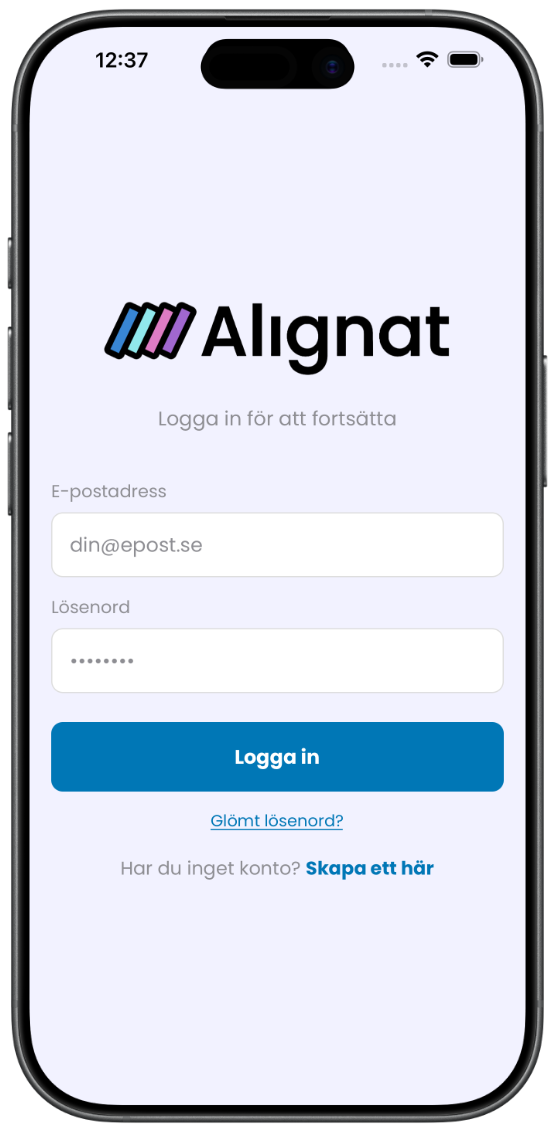
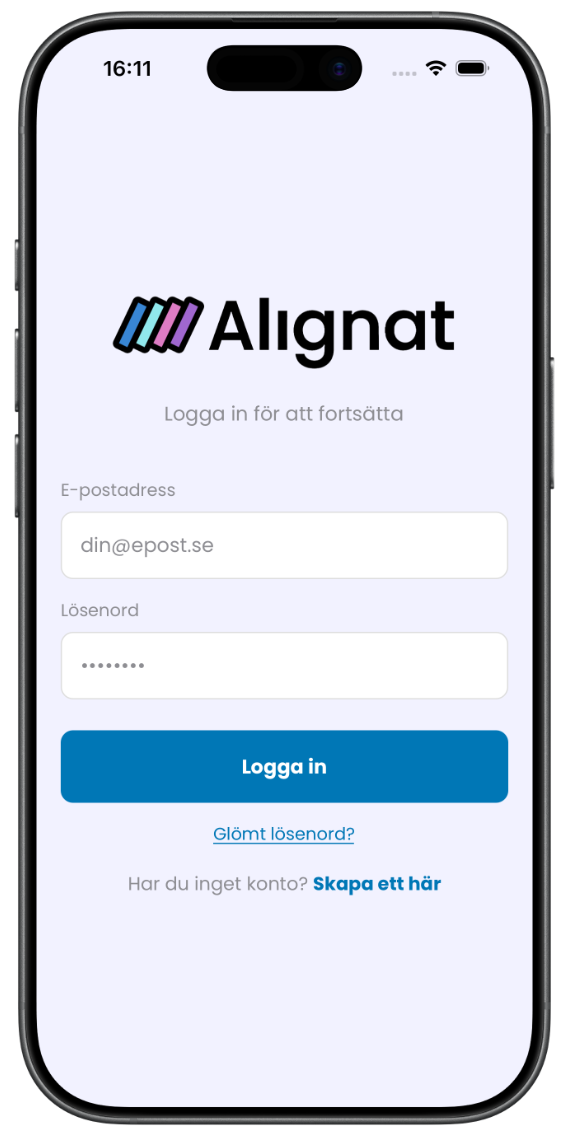
fler screenshots

diff --git a/app/components/ScreenshotCarousel.tsx b/app/components/ScreenshotCarousel.tsx
@@ -6,36 +6,59 @@ import { useState } from 'react';
 // Screenshot data med bildfiler och beskrivningar
 const screenshots = [
   {
-    src: '/images/Al_scs_huvudmeny.png',
+    src: '/images/Al_scs_huvudmeny2.png',
     alt: 'Alignat huvudmeny',
-    caption: 'Enkel överblick på dina jobb och funktioner',
+    caption: 'Hemskärm med inställningar, sök och meny',
   },
   {
-    src: '/images/Al_scs_plusMeny.png',
-    alt: 'Skapa nytt i Alignat',
-    caption: 'Skapa offert, jobb, kunder eller registrera personal',
+    src: '/images/Al_scs_plusMeny2.png',
+    alt: 'Plusmeny',
+    caption: 'Plusmeny för snabbt skapande av innehåll',
   },
   {
-    src: '/images/Al_scs_NyttJobb1.png',
-    alt: 'Lägg till jobb',
-    caption: 'Registrera tid, material och tjänster direkt på jobbet',
+    src: '/images/Al_scs_NyttJobb1_2.png',
+    alt: 'Skapa nytt jobb',
+    caption: 'Skapa nytt jobb eller arbetsorder',
   },
   {
-    src: '/images/Al_scs_ProjSkärm.png',
+    src: '/images/Al_scs_HanteraMeny2.png',
+    alt: 'Hantera menyn',
+    caption: 'Hanteramenyn ger snabb åtkomst till alla funktioner',
+  },
+  {
+    src: '/images/Al_scs_ProjSkärm2.png',
     alt: 'Projektöversikt',
-    caption: 'Se alla aktiva jobb och offerter på ett ställe',
+    caption: 'Tydlig kronologisk översikt på alla jobb',
+  },
+  {
+    src: '/images/Al_scs_Fakturering2.png',
+    alt: 'Fakturering',
+    caption: 'Fakturera snabbt, jobb och arbetsordrar kan samfaktureras',
   },
 ];
 
 export default function ScreenshotCarousel() {
-  const [currentIndex, setCurrentIndex] = useState(0);
+  // Separat state för mobil och desktop för att undvika konflikter
+  const [mobileIndex, setMobileIndex] = useState(0);
+  const [desktopIndex, setDesktopIndex] = useState(0);
 
-  const goToNext = () => {
-    setCurrentIndex((prev) => (prev + 1) % screenshots.length);
+  // --- Mobil Navigation (1 bild i taget) ---
+  const nextMobile = () => {
+    setMobileIndex((prev) => (prev + 1) % screenshots.length);
+  };
+  const prevMobile = () => {
+    setMobileIndex((prev) => (prev - 1 + screenshots.length) % screenshots.length);
   };
 
-  const goToPrev = () => {
-    setCurrentIndex((prev) => (prev - 1 + screenshots.length) % screenshots.length);
+  // --- Desktop Navigation (Parvis, 2 bilder i taget) ---
+  // Vi har 6 bilder, så det blir 3 "sidor" (0, 1, 2)
+  const desktopPages = Math.ceil(screenshots.length / 2);
+  
+  const nextDesktop = () => {
+    setDesktopIndex((prev) => (prev + 1) % desktopPages);
+  };
+  const prevDesktop = () => {
+    setDesktopIndex((prev) => (prev - 1 + desktopPages) % desktopPages);
   };
 
   return (
@@ -51,61 +74,95 @@ export default function ScreenshotCarousel() {
           </p>
         </div>
 
-        {/* Desktop: Grid with all screenshots */}
-        <div className="hidden md:grid md:grid-cols-4 gap-8 items-start">
-          {screenshots.map((screenshot, idx) => (
-            <div key={idx} className="flex flex-col items-center">
-              <div className="relative w-full aspect-[9/19] mb-4">
-                <Image
-                  src={screenshot.src}
-                  alt={screenshot.alt}
-                  fill
-                  className="object-contain drop-shadow-2xl"
-                />
-              </div>
-              <p className="text-sm text-center text-gray-600 px-2">
-                {screenshot.caption}
-              </p>
-            </div>
-          ))}
+        {/* --- DESKTOP VIEW (Visa parvis) --- */}
+        <div className="hidden md:block">
+          <div className="relative">
+             {/* Bilder Container */}
+             <div className="flex justify-center gap-12 mb-8">
+                {/* Vi renderar 2 bilder baserat på desktopIndex */}
+                {[0, 1].map((offset) => {
+                    const imgIndex = desktopIndex * 2 + offset;
+                    // Om vi inte har en bild (udda antal), rendera tomt
+                    if (imgIndex >= screenshots.length) return <div key={offset} className="w-[280px]" />;
+                    
+                    const screenshot = screenshots[imgIndex];
+                    return (
+                        <div key={imgIndex} className="flex flex-col items-center w-[280px]">
+                            <div className="relative w-full">
+                                <Image
+                                  src={screenshot.src}
+                                  alt={screenshot.alt}
+                                  width={800}
+                                  height={1600}
+                                  className="object-contain drop-shadow-2xl w-full h-auto"
+                                  unoptimized
+                                />
+                            </div>
+                            <p className="text-sm text-center text-gray-600 mt-6 min-h-[40px] font-medium">
+                                {screenshot.caption}
+                            </p>
+                        </div>
+                    );
+                })}
+             </div>
+
+             {/* Desktop Controls */}
+             <div className="flex justify-center items-center gap-8 mt-12">
+                <button onClick={prevDesktop} className="p-2 rounded-full bg-gray-100 hover:bg-gray-200 transition-colors" aria-label="Föregående">
+                     <svg className="w-6 h-6 text-gray-600" fill="none" stroke="currentColor" viewBox="0 0 24 24"><path strokeLinecap="round" strokeLinejoin="round" strokeWidth="2" d="M15 19l-7-7 7-7" /></svg>
+                </button>
+                 
+                 {/* Dots för sidor */}
+                 <div className="flex gap-2">
+                   {Array.from({ length: desktopPages }).map((_, idx) => (
+                     <button
+                       key={idx}
+                       onClick={() => setDesktopIndex(idx)}
+                       className={`h-2 rounded-full transition-all duration-300 ${
+                         idx === desktopIndex ? 'bg-brand-blue w-8' : 'bg-gray-300 w-2'
+                       }`}
+                       aria-label={`Gå till sida ${idx + 1}`}
+                     />
+                   ))}
+                 </div>
+
+                <button onClick={nextDesktop} className="p-2 rounded-full bg-gray-100 hover:bg-gray-200 transition-colors" aria-label="Nästa">
+                    <svg className="w-6 h-6 text-gray-600" fill="none" stroke="currentColor" viewBox="0 0 24 24"><path strokeLinecap="round" strokeLinejoin="round" strokeWidth="2" d="M9 5l7 7-7 7" /></svg>
+                </button>
+             </div>
+          </div>
         </div>
 
-        {/* Mobile: Carousel */}
+        {/* --- MOBILE VIEW (Visa 1 åt gången) --- */}
         <div className="md:hidden">
           <div className="relative">
-            {/* Screenshot */}
+            {/* Bild */}
             <div className="flex justify-center mb-6">
-              <div className="relative w-64 aspect-[9/19]">
+              <div className="relative w-64">
                 <Image
-                  src={screenshots[currentIndex].src}
-                  alt={screenshots[currentIndex].alt}
-                  fill
-                  className="object-contain drop-shadow-2xl"
+                  src={screenshots[mobileIndex].src}
+                  alt={screenshots[mobileIndex].alt}
+                  width={800}
+                  height={1600}
+                  className="object-contain drop-shadow-2xl w-full h-auto"
+                  unoptimized
                 />
               </div>
             </div>
 
             {/* Caption */}
-            <p className="text-sm text-center text-gray-600 mb-8 px-4">
-              {screenshots[currentIndex].caption}
+            <p className="text-sm text-center text-gray-600 mb-8 px-4 min-h-[40px] font-medium">
+              {screenshots[mobileIndex].caption}
             </p>
 
-            {/* Navigation arrows */}
+            {/* Mobile Controls */}
             <div className="flex justify-center items-center gap-8">
               <button
-                onClick={goToPrev}
+                onClick={prevMobile}
                 className="p-2 rounded-full bg-gray-100 hover:bg-gray-200 transition-colors"
                 aria-label="Föregående bild"
               >
-                <svg
-                  className="w-6 h-6 text-gray-600"
-                  fill="none"
-                  strokeLinecap="round"
-                  strokeLinejoin="round"
-                  strokeWidth="2"
-                  viewBox="0 0 24 24"
-                  stroke="currentColor"
-                >
+                <svg className="w-6 h-6 text-gray-600" fill="none" strokeLinecap="round" strokeLinejoin="round" strokeWidth="2" viewBox="0 0 24 24" stroke="currentColor">
                   <path d="M15 19l-7-7 7-7" />
                 </svg>
               </button>
@@ -115,11 +172,9 @@ export default function ScreenshotCarousel() {
                 {screenshots.map((_, idx) => (
                   <button
                     key={idx}
-                    onClick={() => setCurrentIndex(idx)}
-                    className={`w-2 h-2 rounded-full transition-all ${
-                      idx === currentIndex
-                        ? 'bg-brand-blue w-6'
-                        : 'bg-gray-300'
+                    onClick={() => setMobileIndex(idx)}
+                    className={`h-2 rounded-full transition-all duration-300 ${
+                      idx === mobileIndex ? 'bg-brand-blue w-6' : 'bg-gray-300 w-2'
                     }`}
                     aria-label={`Gå till bild ${idx + 1}`}
                   />
@@ -127,19 +182,11 @@ export default function ScreenshotCarousel() {
               </div>
 
               <button
-                onClick={goToNext}
+                onClick={nextMobile}
                 className="p-2 rounded-full bg-gray-100 hover:bg-gray-200 transition-colors"
                 aria-label="Nästa bild"
               >
-                <svg
-                  className="w-6 h-6 text-gray-600"
-                  fill="none"
-                  strokeLinecap="round"
-                  strokeLinejoin="round"
-                  strokeWidth="2"
-                  viewBox="0 0 24 24"
-                  stroke="currentColor"
-                >
+                <svg className="w-6 h-6 text-gray-600" fill="none" strokeLinecap="round" strokeLinejoin="round" strokeWidth="2" viewBox="0 0 24 24" stroke="currentColor">
                   <path d="M9 5l7 7-7 7" />
                 </svg>
               </button>

diff --git a/app/page.tsx b/app/page.tsx
@@ -58,7 +58,7 @@ export default function Home() {
               {/* Mobil: 230px, Desktop: 280px */}
               <div className="relative w-[230px] lg:w-[280px]">
                   <Image
-                    src="/images/Al_scs_inlogg.png?v=7"
+                    src="/images/Al_scs_inlogg.png?v=8"
                     alt="Alignat inloggningsskärm"
                     width={800}
                     height={1600}
